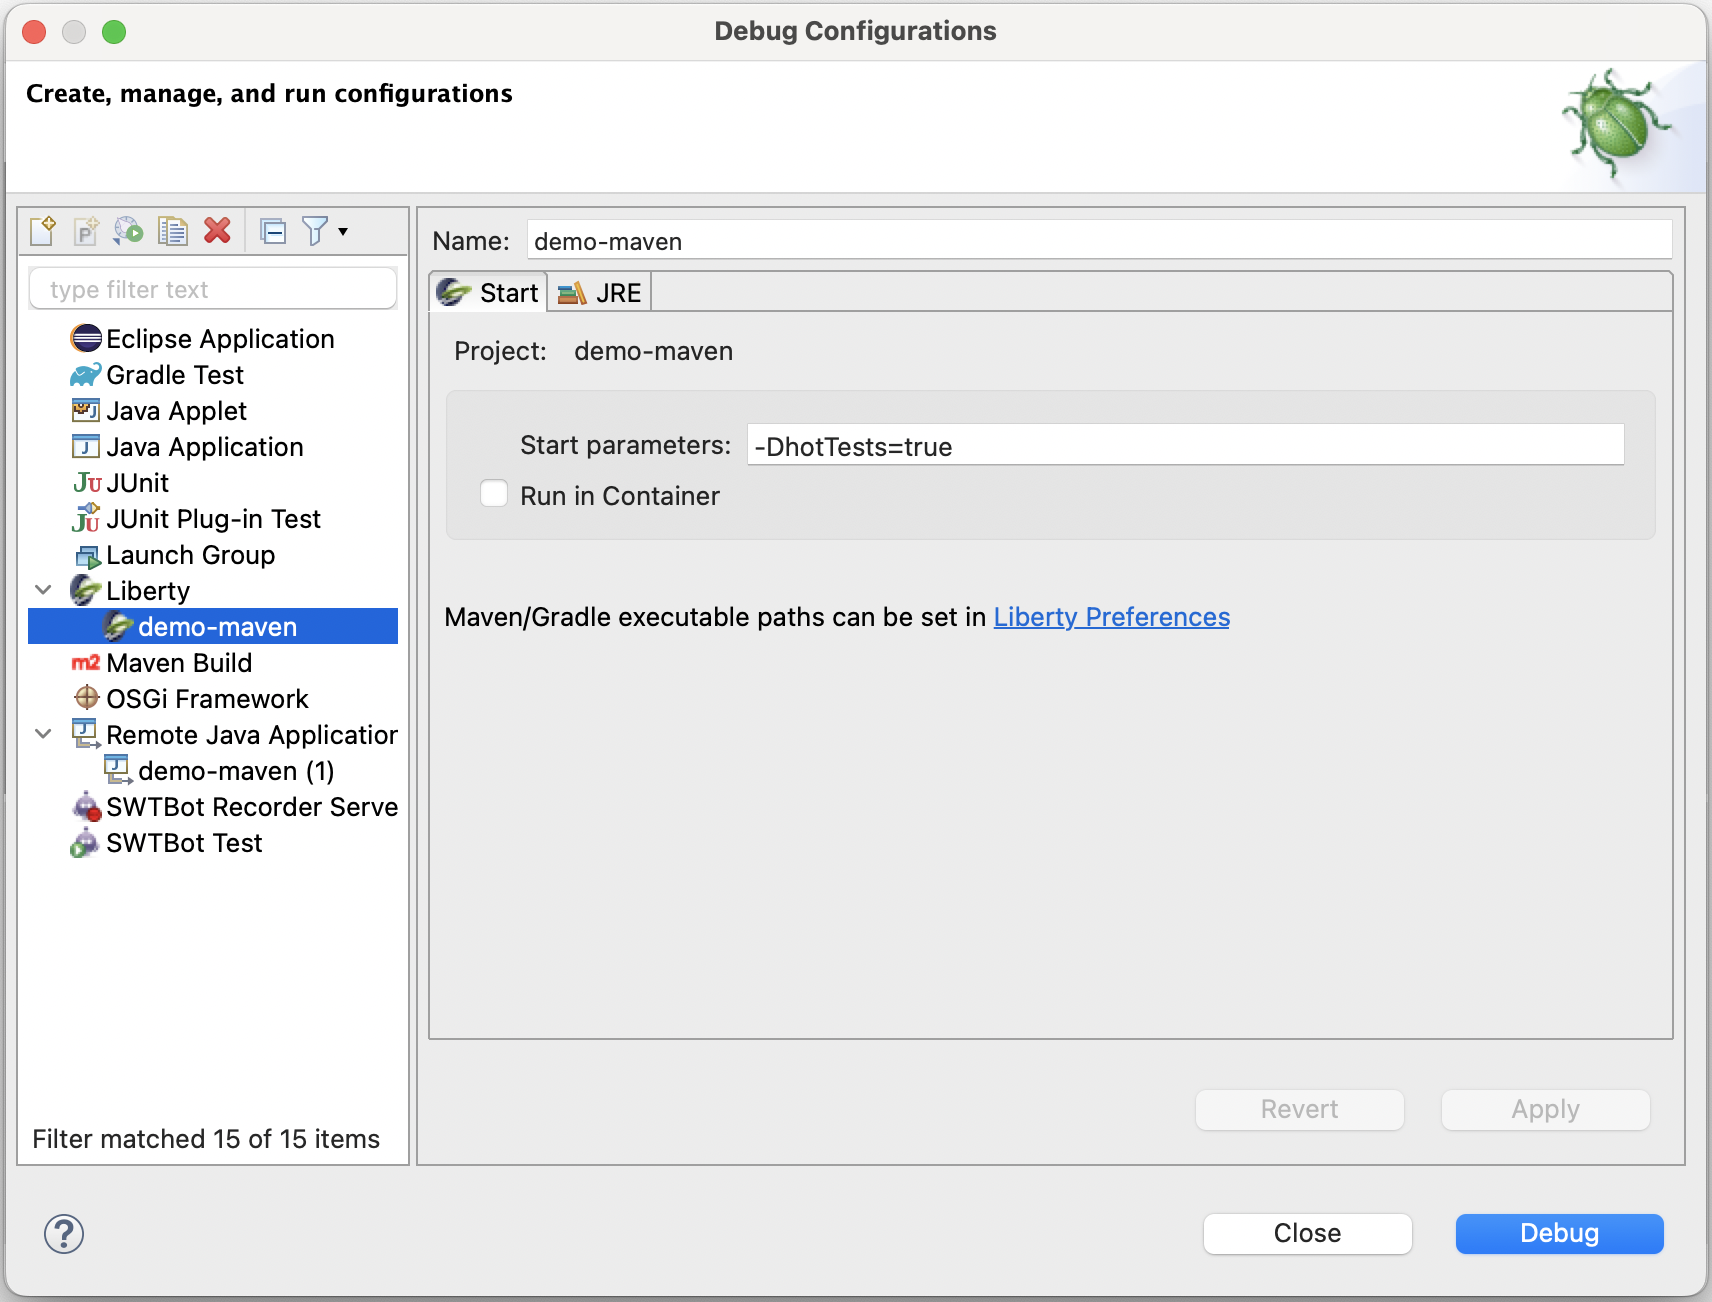
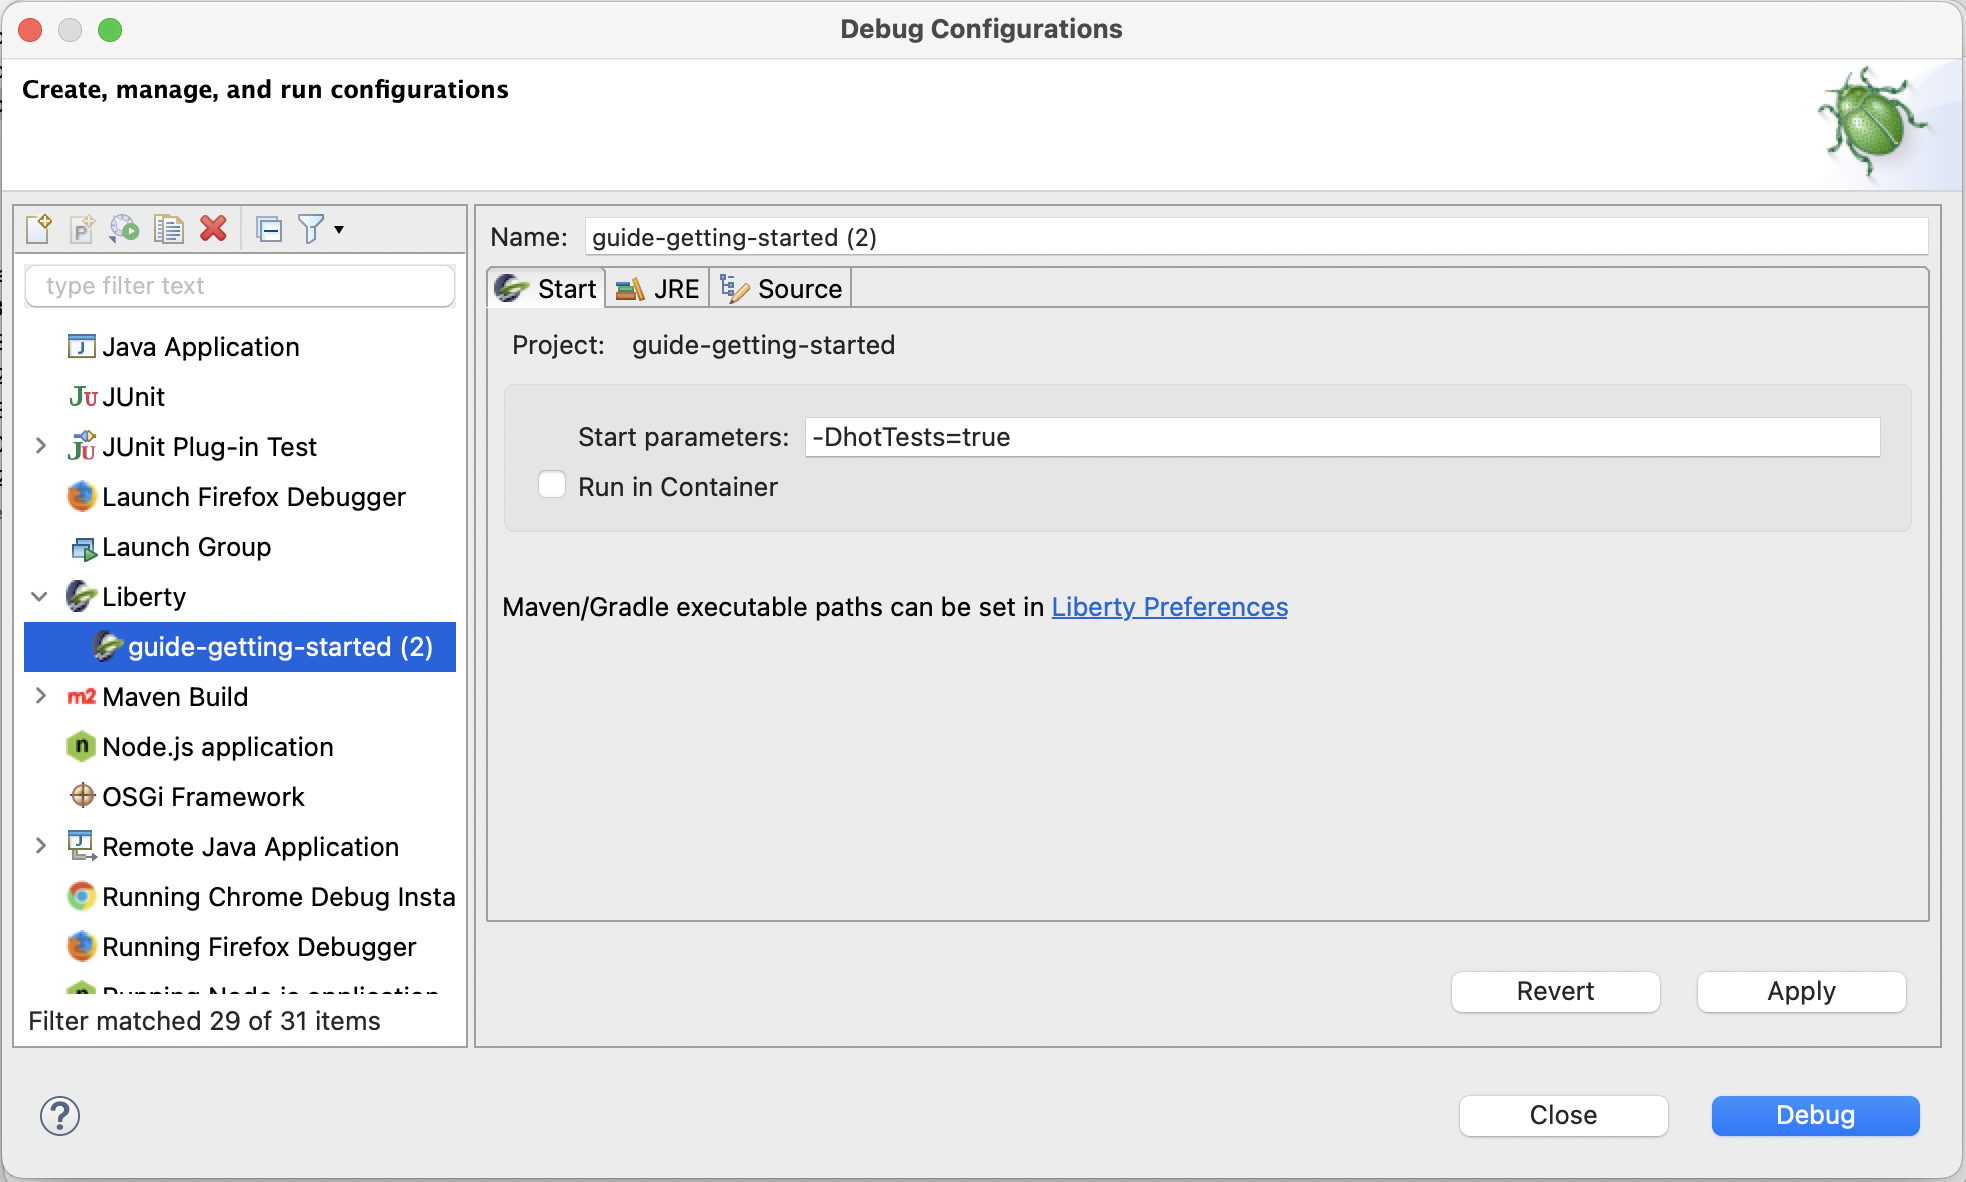
Update doc for 23.0.12

Changed region(s): [[0.0, 0.0, 1.0, 1.0], [0.0, 0.0, 0.3096, 0.0914], [0.4025, 0.0, 0.5882, 0.0305]]

diff --git a/docs/user-guide.md b/docs/user-guide.md
@@ -43,6 +43,7 @@ This guide provides detailed instructions on how to use Liberty Tools for the Ec
 |  23.0.6     	| 2023-03 - Eclipse v4.27 |
 |  23.0.7     	| 2023-03 - Eclipse v4.27 |
 |  23.0.9       | 2023-06 - Eclipse v4.28 |
+|  23.0.12      | 2023-09 - Eclipse v4.29 |
 
 **NOTE:** Tested with each of the `Eclipse IDE for Enterprise Java and Web Developers` and `Eclipse IDE for Java Developers` packages
 
@@ -227,13 +228,13 @@ If you select the **Liberty Start...** launch shortcut action, the Debug Configu
 
 ![Debug Configurations Dialog](images/maven-DebugConfigsDialog.png)
 
+Under the `Source` tab you can also customize the source lookup locations for your debug session. By default, the source for the running project as well as any dependency projects that exist within the workspace are added. You can add additional source lookup locations by clicking the `Add` button. 
+
+![Debug Configurations Dialog](images/maven-debugSourceLookupTab.png)
+
 When you finish with the customizations, click the **Debug** button to launch dev mode and attach the debugger. 
 
 ![Debugger Attached](images/maven-DebuggerAttachedToJVMBreakpoint.png)
-
-When the debugger is attached to the Liberty server JVM, a `Remote Java Application` configuration is created (or updated) and reflects the debug port number the JVM is listening on. 
-
-![Debug As launch shortcuts](images/maven-RemoteJavaApplicationConfiguration.png)
 
 ## Manually adding the Liberty nature to a project
 
